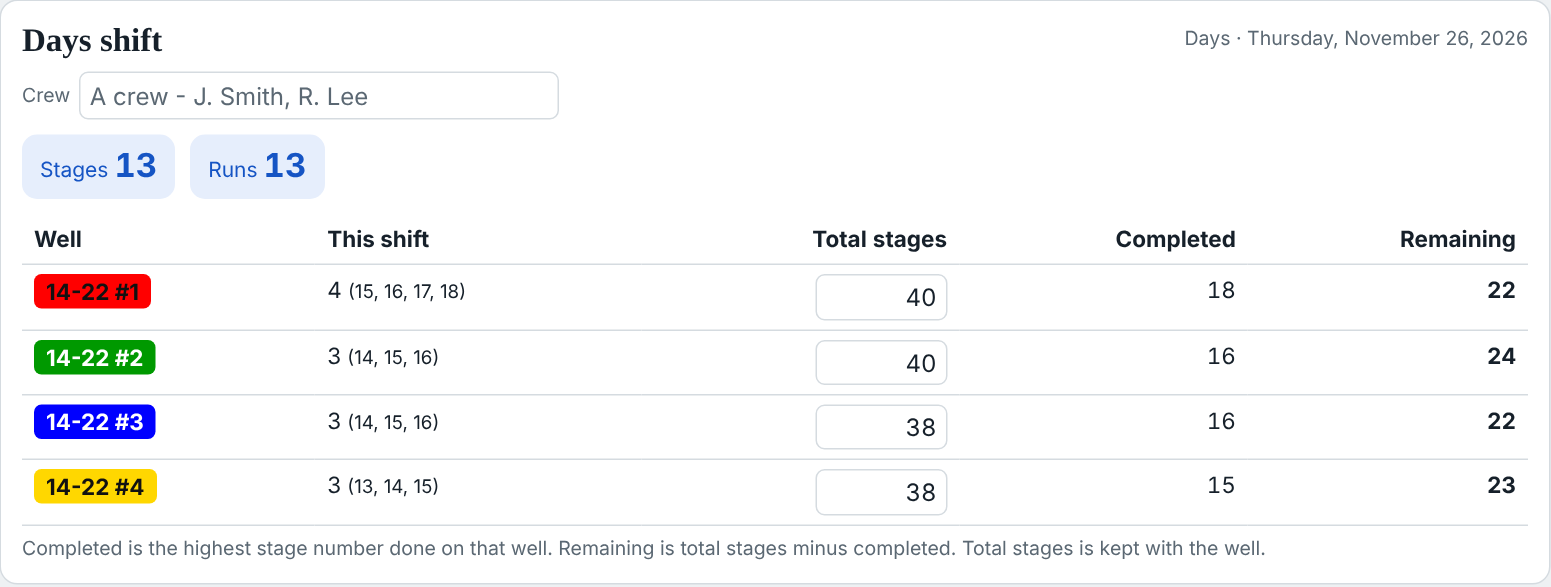
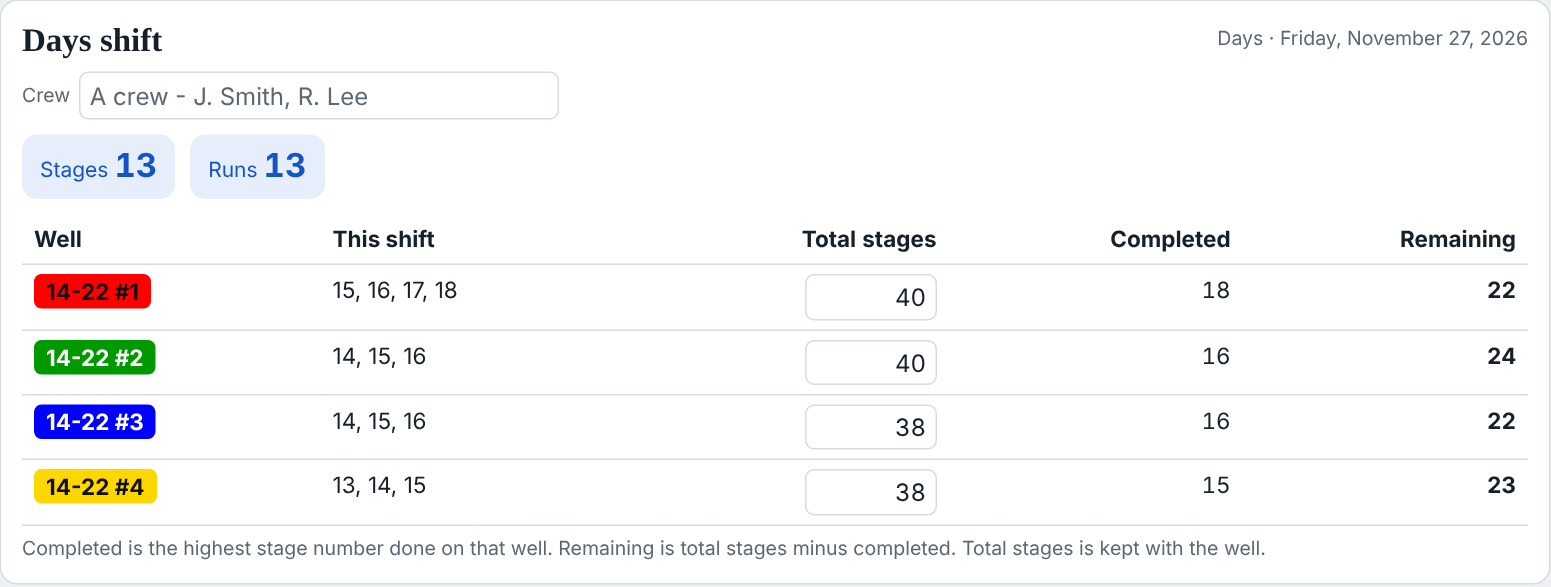
XO 'This shift' shows stage numbers only
Drops the per-well count from the This shift column (the shift total is
shown above the table); stage notes now appear in brackets. Same for the
email, printout and PDF.

Claude-Session: https://claude.ai/code/session_01VgqTXvRicyLPoHF4HXncHg

diff --git a/index.html b/index.html
@@ -528,7 +528,7 @@ function notesText(){const n=N(S),c=SD().checks,L=[];
   L.push('Unit: '+(n.unit||'')+'    Trailer: '+(n.trailer||''));
   (n.jobEq||[]).forEach(e=>{if(e.sn||e.exp)L.push(e.name+': '+(e.sn||'-')+(e.exp?' (exp '+fmtD(e.exp)+')':''))});L.push('');
   L.push('STAGES - '+SH[VS]+': '+S.wells.reduce((a,w)=>a+cnt(shiftStages(w)),0)+'    RUNS: '+SD().runs);
-  S.wells.forEach(w=>{const st=shiftStages(w);L.push(w.name+(w.color?' ('+(WCOLORS.find(c=>c[0]===w.color)||['',''])[1]+')':'')+': this shift '+cnt(st)+(st.length?' ('+st.map(s=>s.num+(s.note?' - '+s.note:'')).join(', ')+')':'')+' | completed '+done(w)+(w.total?' of '+w.total+' | remaining '+rem(w):''))});
+  S.wells.forEach(w=>{const st=shiftStages(w);L.push(w.name+(w.color?' ('+(WCOLORS.find(c=>c[0]===w.color)||['',''])[1]+')':'')+': this shift '+(st.length?st.map(s=>s.num+(s.note?' ('+s.note+')':'')).join(', '):'none')+' | completed '+done(w)+(w.total?' of '+w.total+' | remaining '+rem(w):''))});
   L.push('','WEEKLY CHECKS');S.lists.weekly.forEach(x=>L.push((c[x.id]?'[x] ':'[ ] ')+x.t));
   L.push('','DAILY DUTIES');S.lists.daily.forEach(x=>L.push((c[x.id]?'[x] ':'[ ] ')+x.t));
   L.push('','OPERATIONS',...(bullets(SD().ops).length?bullets(SD().ops):['-']));
@@ -538,7 +538,7 @@ function renderNotes(){const tb=$('nWells');if(!tb)return;
   $('nStages').textContent=S.wells.reduce((a,w)=>a+cnt(shiftStages(w)),0);
   $('nRuns').textContent=SD().runs;
   const f=document.activeElement&&document.activeElement.dataset.wt;
-  if(f==null)tb.innerHTML=S.wells.map((w,i)=>{const st=shiftStages(w);return`<tr><td>${wChip(w)}</td><td>${cnt(st)}${st.length?' <small>('+st.map(s=>esc(s.num)).join(', ')+')</small>':''}</td><td class="r"><input data-wt="${i}" value="${esc(w.total||'')}" inputmode="numeric" aria-label="Total stages ${esc(w.name)}"></td><td class="r">${done(w)}</td><td class="r"><b>${rem(w)}</b></td></tr>`}).join('');
+  if(f==null)tb.innerHTML=S.wells.map((w,i)=>{const st=shiftStages(w);return`<tr><td>${wChip(w)}</td><td>${st.length?st.map(s=>esc(s.num)).join(', '):'—'}</td><td class="r"><input data-wt="${i}" value="${esc(w.total||'')}" inputmode="numeric" aria-label="Total stages ${esc(w.name)}"></td><td class="r">${done(w)}</td><td class="r"><b>${rem(w)}</b></td></tr>`}).join('');
   const sub=subject();$('subj').textContent='Subject: '+sub;
   let body=notesText();if(body.length>1800)body=body.slice(0,1800)+'\n...(trimmed - use Copy notes for the full text)';
   $('mail').href='mailto:'+toList(N(S).to)+'?subject='+encodeURIComponent(sub)+'&body='+encodeURIComponent(body)}
@@ -554,7 +554,7 @@ function buildDoc(){const n=N(S),c=SD().checks,e=esc,box=v=>v?'☒':'☐';
   <tr><td class="k">Crew</td><td colspan="3">${e(SD().crew)}</td></tr></table>
   ${eq.length?`<h2>Packages &amp; equipment</h2><table><tr><th>Item</th><th>S/N or Color</th><th>Expiry</th></tr>${eq.map(x=>`<tr><td>${e(x.name)}</td><td>${e(x.sn)}</td><td class="${dueSoon(x.exp)?'ex':''}">${e(fmtD(x.exp))}</td></tr>`).join('')}</table>`:''}
   <h2>Wells</h2><table><tr><th>Well</th><th>This shift</th><th class="r">Total stages</th><th class="r">Completed</th><th class="r">Remaining</th></tr>
-  ${S.wells.map(w=>{const st=shiftStages(w);return`<tr><td>${chip(w)}</td><td>${cnt(st)}${st.length?' &nbsp;('+st.map(x=>e(x.num)+(x.note?' - '+e(x.note):'')).join(', ')+')':''}</td><td class="r">${e(w.total||'')}</td><td class="r">${done(w)}</td><td class="r"><b>${rem(w)}</b></td></tr>`}).join('')}</table>
+  ${S.wells.map(w=>{const st=shiftStages(w);return`<tr><td>${chip(w)}</td><td>${st.length?st.map(x=>e(x.num)+(x.note?' ('+e(x.note)+')':'')).join(', '):'—'}</td><td class="r">${e(w.total||'')}</td><td class="r">${done(w)}</td><td class="r"><b>${rem(w)}</b></td></tr>`}).join('')}</table>
   <div class="tot"><div>Stages this shift<b>${S.wells.reduce((a,w)=>a+cnt(shiftStages(w)),0)}</b></div><div>Runs this shift<b>${SD().runs}</b></div></div>
   <h2>Checks</h2><div class="cols"><div><b>Weekly checks</b>${S.lists.weekly.map(x=>`<div class="ck"><span>${box(c[x.id])}</span><span>${e(x.t)}</span></div>`).join('')}</div>
   <div><b>Daily duties</b>${S.lists.daily.map(x=>`<div class="ck"><span>${box(c[x.id])}</span><span>${e(x.t)}</span></div>`).join('')}</div></div>
